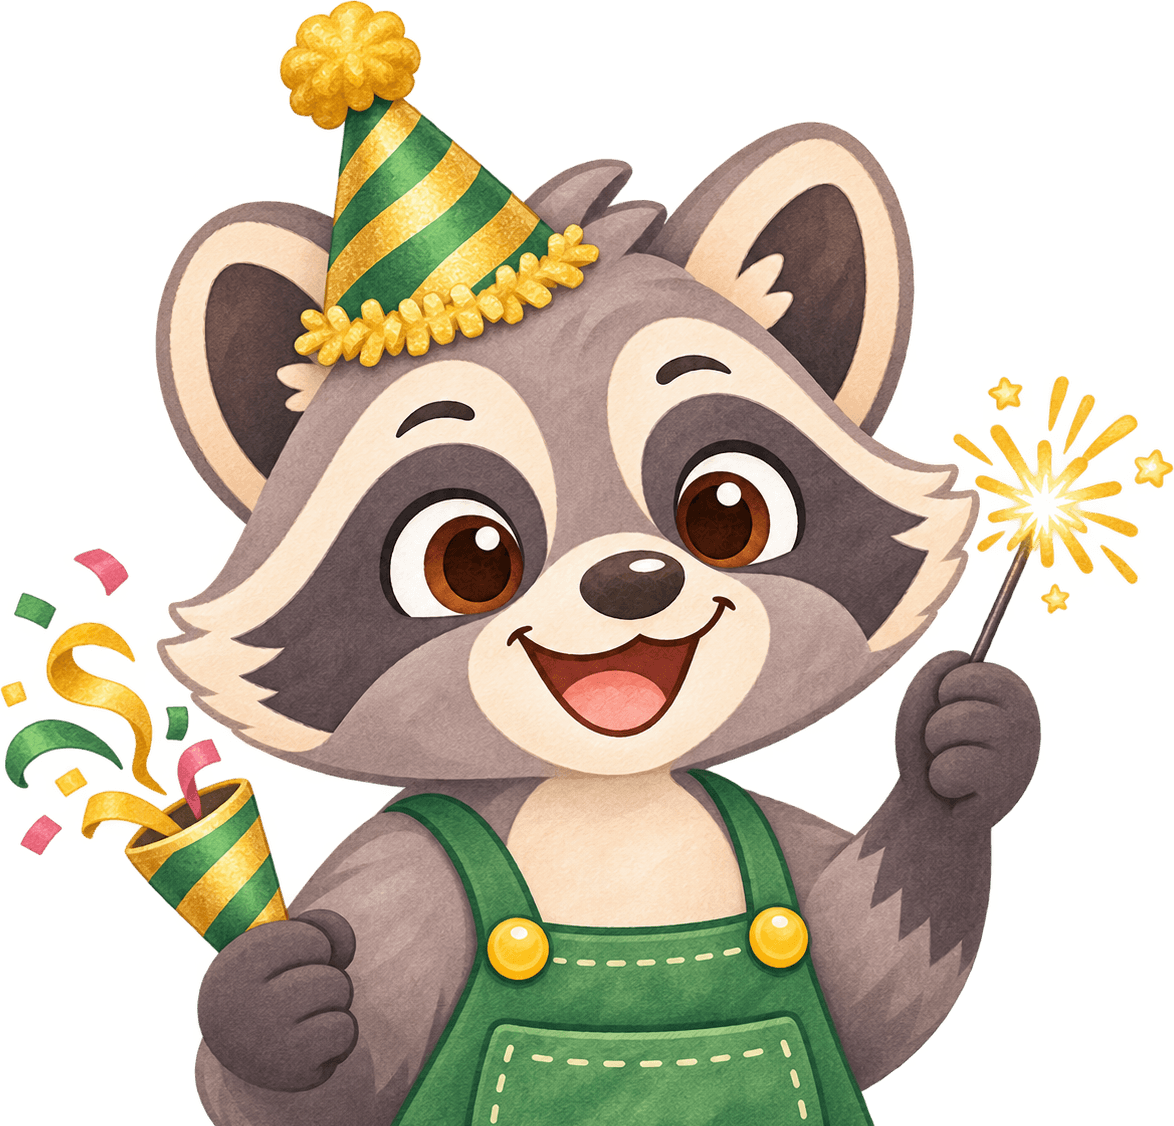
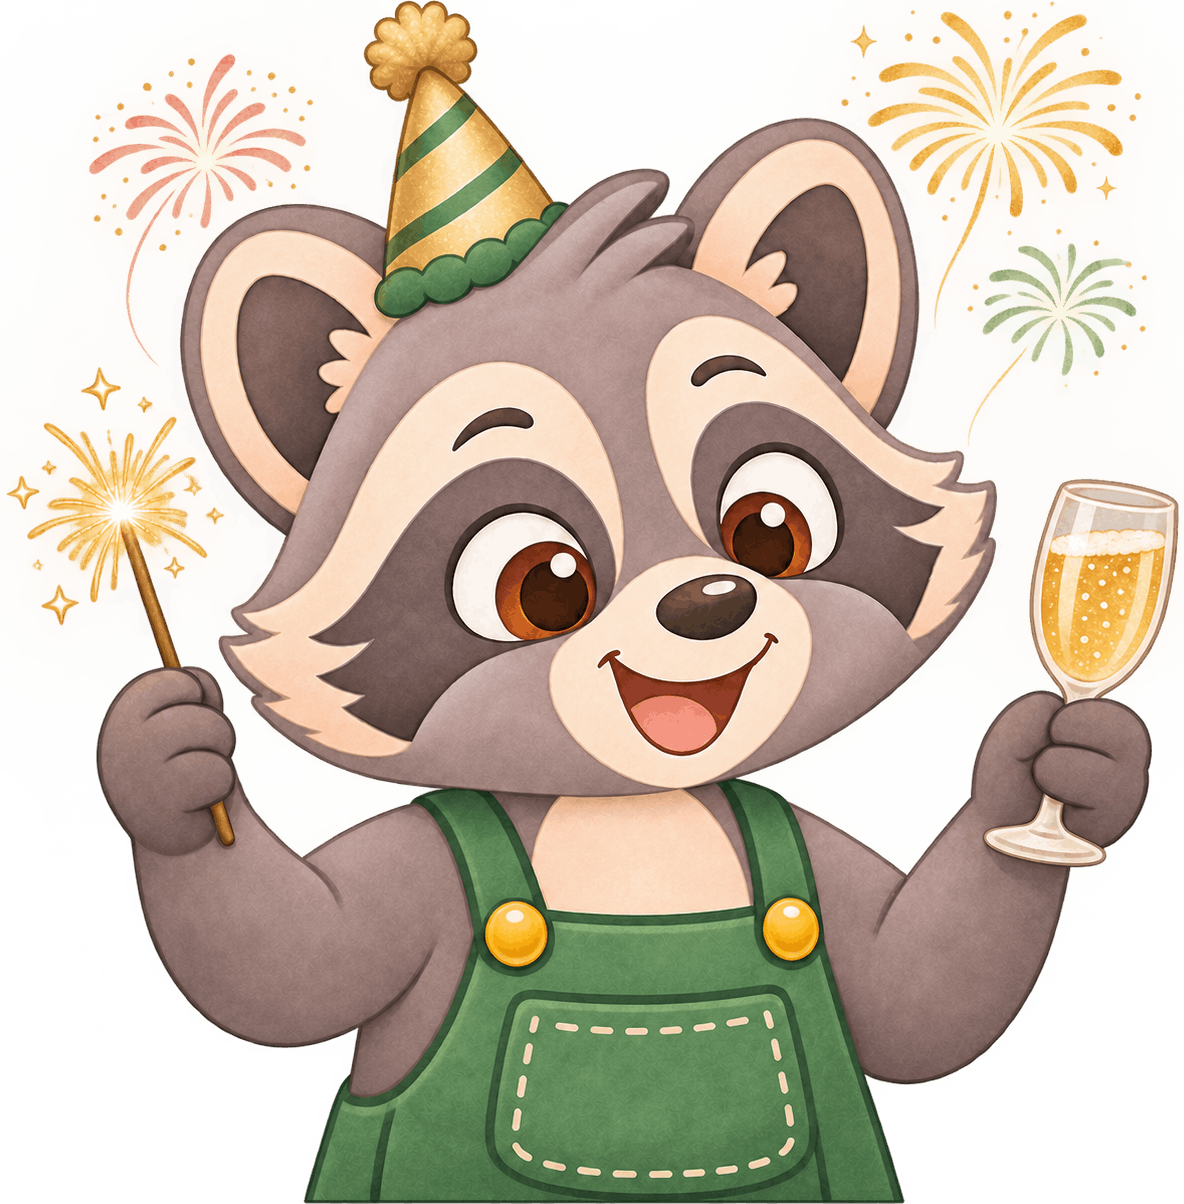
New art for the New Year raccoon
Sparkler, a glass of sekt and watercolour fireworks instead of the party
popper. Same file name, so its days, album number and stats stay. Checked on
the light and dark card; the AVIF grows 28 -> 36 KB. The admin raccoon
picker's baseline shows the new tile (DECISIONS #242).

diff --git a/src/lib/assets/mascot/index.ts b/src/lib/assets/mascot/index.ts
@@ -70,7 +70,7 @@ export const MASCOTS = {
 	'reminder-overdue': { src: reminderOverdue, width: 467, height: 408, body: 0.42 },
 	birthday: { src: birthday, width: 348, height: 408, body: 0.52 },
 	christmas: { src: christmas, width: 418, height: 408, body: 0.59 },
-	'new-year': { src: newYear, width: 425, height: 408, body: 0.55 },
+	'new-year': { src: newYear, width: 401, height: 408, body: 0.55 },
 	easter: { src: easter, width: 370, height: 408, body: 0.56 },
 	fasching: { src: fasching, width: 314, height: 408, body: 0.48 },
 	halloween: { src: halloween, width: 388, height: 408, body: 0.53 },

diff --git a/docs/DECISIONS.md b/docs/DECISIONS.md
@@ -3491,3 +3491,10 @@ units | null, name}`, written back as editor lines in the reader's unit spelling
      is allowed because the album hasn't been in a release yet (`v0.2.0` predates plan 35);
      a sighting of `summer-garden` on the test deploy just stops counting (the album reads
      only names it lists), so no migration.
+
+242. **New art for the New Year raccoon** (Lukas 2026-11-05). `new-year` now holds a sparkler
+     and a glass of sekt, with watercolour fireworks behind it, instead of the party popper. The
+     file keeps its name (`npm run raccoons -- --replace`), so its rule (31 December – 1 January),
+     album number 042 and stats stay put. The fireworks are a soft half-transparent glow; checked
+     on the light and the dark card, where it reads as sky, not a smudge. The AVIF grows from
+     28 to 36 KB. No test: the picture changes, nothing the app does.
